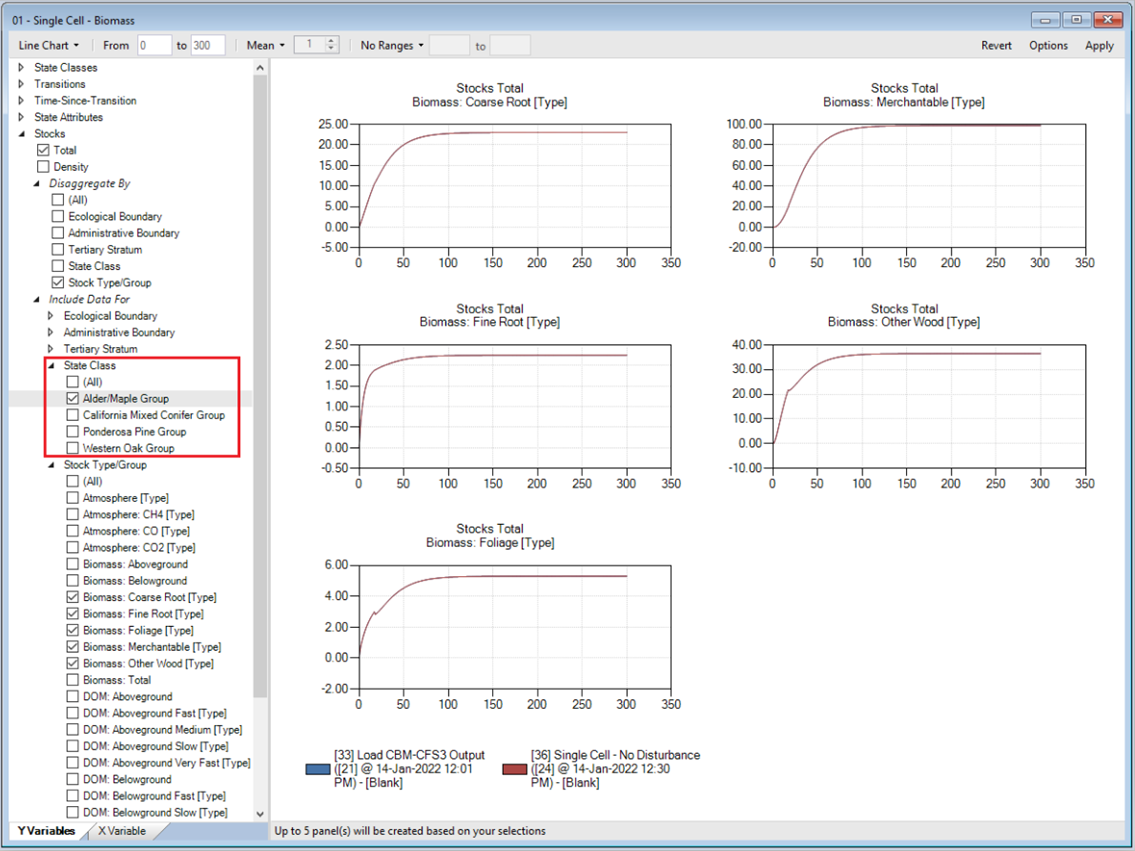
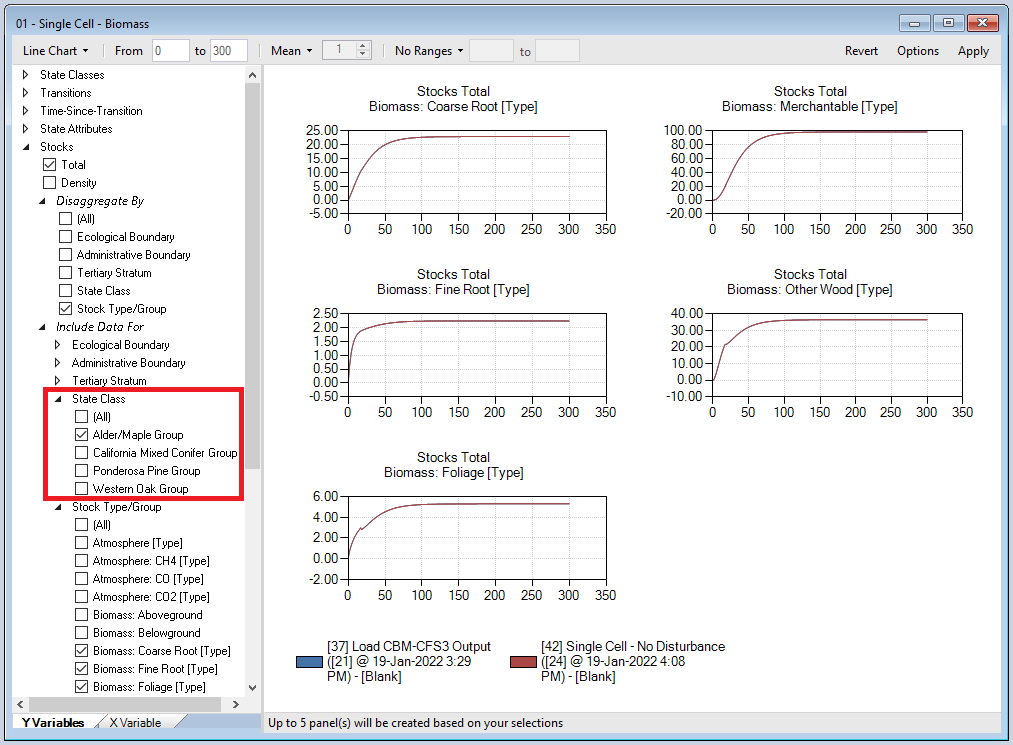
Replaced old screencap 12

Changed region(s): [[0.0, 0.0, 1.0, 1.0]]

diff --git a/docs/getting_started.md b/docs/getting_started.md
@@ -118,7 +118,7 @@ To view results from your **Single Cell – No Disturbance** run, move to the 
 <br>
 The following window should open.
 <br>
-<img align="middle" style="padding: 3px" width="975" src="assets/images/screencap-12-update.png">
+<img align="middle" style="padding: 3px" width="975" src="assets/images/screencap-12.png">
 <br>
 Double-click on the **Single Cell – Aboveground DOM** and **Single Cell – Belowground DOM** charts to view the results. You can view results for the different forest types by changing the **State Class** selection and then clicking **Apply**.  When done viewing the **Single Cell** Results, remove the **Load CBM-CFS3 Output** and **Single Cell – No Disturbance Scenarios** from the Results Viewer.
 
